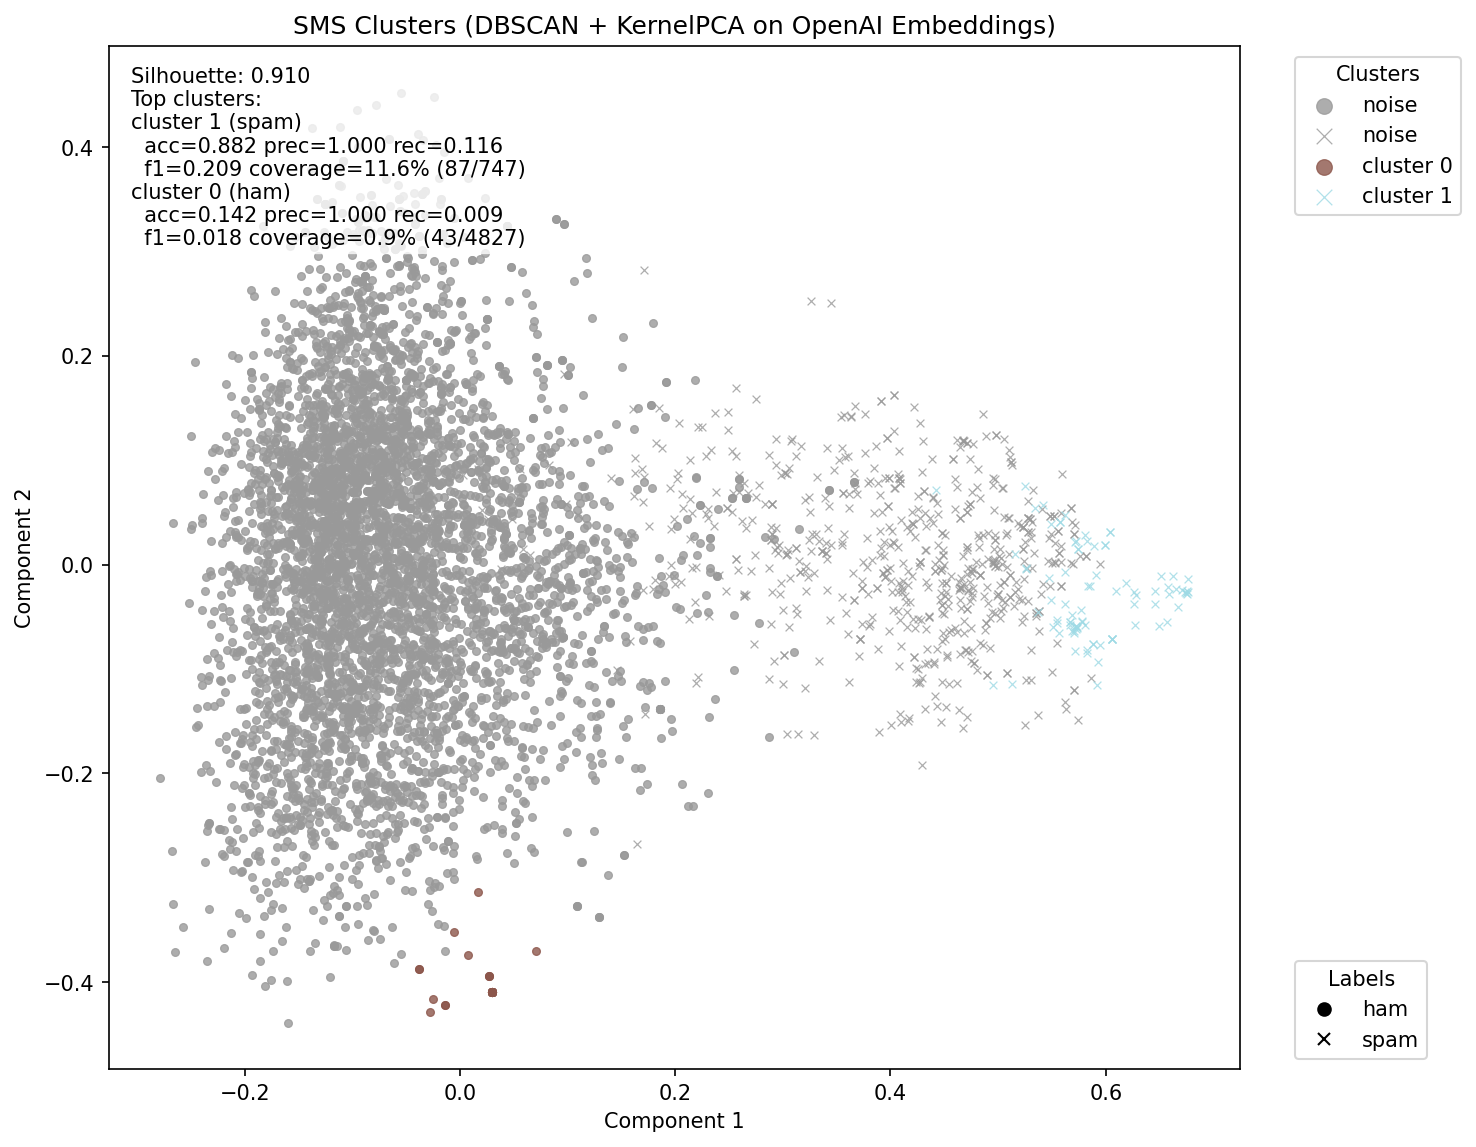
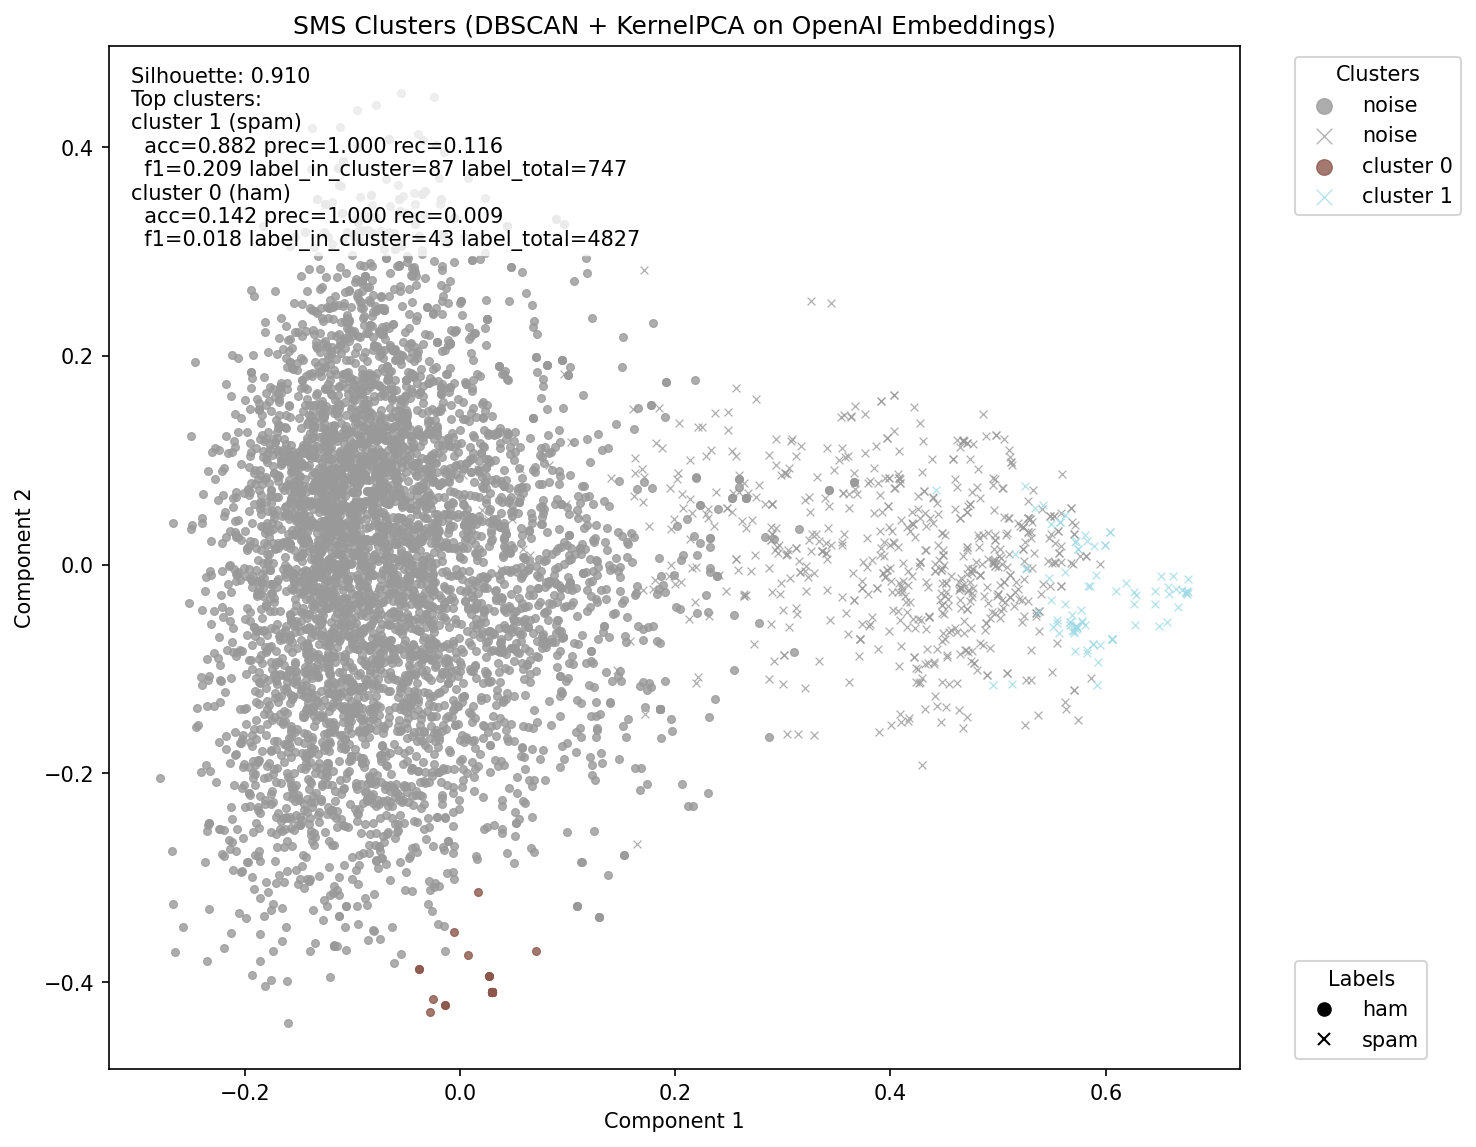
removed redundancy in metrics

Changed region(s): [[0.0935, 0.1221, 0.4363, 0.2136]]

diff --git a/genai_llm/cluster/metrics.py b/genai_llm/cluster/metrics.py
@@ -46,7 +46,6 @@ class ClusterSummary:
     precision: float
     recall: float
     f1: float
-    coverage: float
     label_in_cluster: int
     label_total: int
     cluster_size: int
@@ -60,7 +59,6 @@ class ClusterSummary:
             "precision": self.precision,
             "recall": self.recall,
             "f1": self.f1,
-            "coverage": self.coverage,
             "label_in_cluster": self.label_in_cluster,
             "label_total": self.label_total,
             "cluster_size": self.cluster_size,
@@ -112,7 +110,6 @@ def compute_cluster_metrics(
                 prec = precision_score(y_true, y_pred, zero_division=0)
                 rec = recall_score(y_true, y_pred, zero_division=0)
                 f1 = f1_score(y_true, y_pred, zero_division=0)
-                coverage = (label_in_cluster / label_total) if label_total else 0.0
                 cluster_size = int(np.sum(cluster_mask))
                 cluster_summaries.append(
                     ClusterSummary(
@@ -122,7 +119,6 @@ def compute_cluster_metrics(
                         precision=float(prec),
                         recall=float(rec),
                         f1=float(f1),
-                        coverage=float(coverage),
                         label_in_cluster=label_in_cluster,
                         label_total=label_total,
                         cluster_size=cluster_size,
@@ -133,8 +129,8 @@ def compute_cluster_metrics(
                     f"  acc={acc:.3f} prec={prec:.3f} rec={rec:.3f}"
                 )
                 cluster_metrics_lines.append(
-                    f"  f1={f1:.3f} coverage={coverage:.1%} "
-                    f"({label_in_cluster}/{label_total})"
+                    f"  f1={f1:.3f} label_in_cluster={label_in_cluster} "
+                    f"label_total={label_total}"
                 )
     return ClusterMetrics(
         silhouette_text=silhouette_text,

diff --git a/utils/compare_genai_configs.py b/utils/compare_genai_configs.py
@@ -130,7 +130,6 @@ def _build_rows(
             "precision": primary.get("precision"),
             "recall": primary.get("recall"),
             "f1": primary.get("f1"),
-            "coverage": primary.get("coverage"),
             "label_in_cluster": primary.get("label_in_cluster"),
             "label_total": primary.get("label_total"),
             "cluster_size": primary.get("cluster_size"),
@@ -159,7 +158,6 @@ def _write_csv(rows: Sequence[Dict[str, Any]], output_path: pathlib.Path) -> Non
         "precision",
         "recall",
         "f1",
-        "coverage",
         "label_in_cluster",
         "label_total",
         "cluster_size",
@@ -248,7 +246,6 @@ def main() -> int:
     accuracy_path = output_dir / "genai_cluster_accuracy.png"
     f1_path = output_dir / "genai_cluster_f1.png"
     silhouette_path = output_dir / "genai_cluster_silhouette.png"
-    coverage_path = output_dir / "genai_cluster_coverage.png"
 
     if not _plot_metric(rows, "accuracy", accuracy_path):
         print(
@@ -258,11 +255,9 @@ def main() -> int:
         return 0
     _plot_metric(rows, "f1", f1_path)
     _plot_metric(rows, "silhouette", silhouette_path, y_min=-1.0, y_max=1.0)
-    _plot_metric(rows, "coverage", coverage_path)
     print(f"wrote {accuracy_path}")
     print(f"wrote {f1_path}")
     print(f"wrote {silhouette_path}")
-    print(f"wrote {coverage_path}")
     return 0
 
 

diff --git a/genai_llm/algorithms/clustering.py b/genai_llm/algorithms/clustering.py
@@ -27,8 +27,10 @@ class HDBSCANStrategy(ClusteringStrategy):
 
     def __init__(self, params: Dict[str, Any]) -> None:
         """Initialize the strategy with algorithm parameters."""
-        self._params = params
-        self._clusterer = HDBSCAN(**params)
+        cleaned = dict(params)
+        cleaned.setdefault("copy", False)
+        self._params = cleaned
+        self._clusterer = HDBSCAN(**cleaned)
 
     @property
     def name(self) -> str:

diff --git a/README.md b/README.md
@@ -14,6 +14,14 @@ python3.11 -m venv .venv
 source .venv/bin/activate
 ```
 
+- If `python3.11` is not found (pyenv), set the local version and retry:
+
+```bash
+pyenv local 3.11.9
+python -m venv .venv
+source .venv/bin/activate
+```
+
 - Install dependencies:
 
 ```bash
@@ -105,7 +113,7 @@ Swap `_openai` for `_gemini` in the filenames to run Gemini-backed configs.
   - Output filenames include the clustering, reduction, and embedding provider names (e.g., `_hdbscan_pca_openai`).
   - Embedding cache filenames also include the provider to avoid mixing results.
   - Cluster metric reports are written to `genai_llm/cache` with `cluster_metrics_*` filenames.
-  - `run_all_configs.sh` aggregates these into `output/genai_cluster_comparison.csv` plus accuracy/F1/silhouette/coverage bar charts.
+  - `run_all_configs.sh` aggregates these into `output/genai_cluster_comparison.csv` plus accuracy/F1/silhouette bar charts.
   - Override `output_dir` in `configs/genai_llm_config_*.json` to change the visualization destination.
   - Override `cache_dir` to move embedding/cluster artifacts elsewhere.
 
